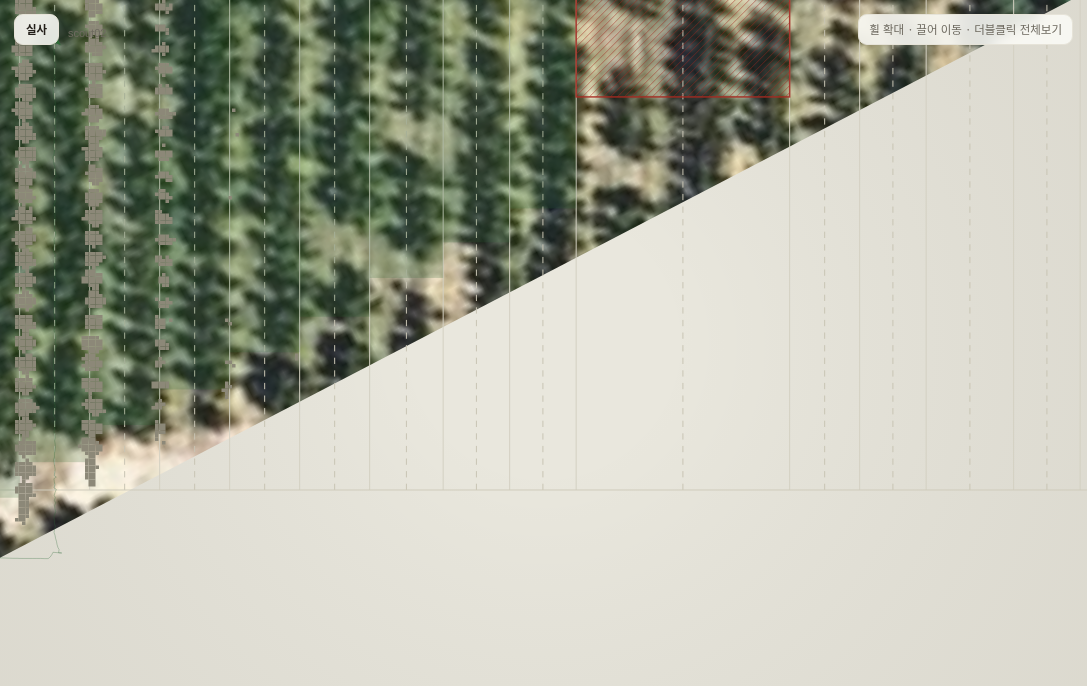
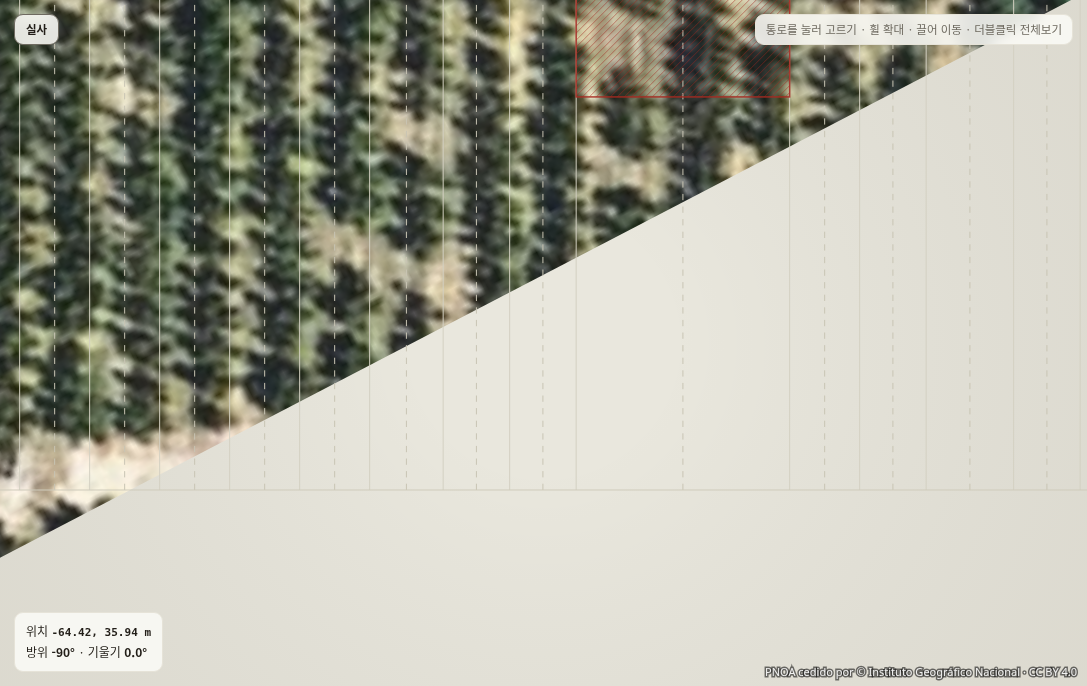
선수정 — 명령 응답이 개입 티켓을 만들던 결함 차단 + 정사영상 출처 표기
수정 라운드 1 의 선수정 승인 2건(I1·I2). 둘 다 T7 게이트가 드러낸 것이다.

I1 — cmd_result 가 개입 큐를 오염시켰다
  `_route_intervention` 은 이벤트 payload 의 code 를 그대로 코드표에 넣는데,
  `cmd_result` 는 성공 시에도 code:"OK" 를 싣는다. stopcodes.get("OK") 는
  UNKNOWN(needs_operator=True)으로 떨어지므로 **정상적으로 수락된 명령 하나
  하나가 "분류되지 않은 정지" 티켓을 열었다**. 실측: 게이트 발진 3초 만에
  `mission_start → accepted` 가 티켓이 됐고, 큐를 비워도 다음 명령이 곧바로
  새 티켓을 열었다. 개입 건수·통로당 개입·현장 출동이 통째로 오염된다.

  코드표를 넓히는 대신 **채널을 가른다** — 진입부에서 kind ∈ {cmd_result,
  report} 를 제외한다. 이 두 kind 의 code 는 명령 처리 결과 코드(OK·BUSY·
  TIMEOUT·BAD_PARAM)이지 정지 사유 코드가 아니고, 이미 _consume_cmd_result 가
  임무 상태기계로 소비한다. 명령이 정말 사람을 불러야 하면 로봇이 assistance
  를 따로 낸다.

  시험 6건: 실측된 응답 4형태(accepted/completed OK · relocalize failed
  TIMEOUT · rejected BUSY)와 report 가 티켓을 안 열고, **진짜 개입 3종
  (TRACTION_LOSS·LOCALIZATION_LOST·estop)은 여전히 연다**. 가드를 지우면
  6건이 전부 실패하는 것도 확인했다(변이 시험).
  과거 UNKNOWN 7행은 손대지 않는다 — 지표 연속성 판단은 별건이다.

I2 — 정사영상 출처 표기(CC BY 4.0 의무)
  LICENSE-DATA.md 는 "대시보드 배경 포함 모든 산출물"에 표기를 요구하는데
  화면에도 API 에도 문자열이 없었다. /api/v1/farm 에 attribution 을 신설하고
  (farm.json 에 있으면 그것을 우선) 대시보드가 지도 우하단에 상시 렌더한다.
  문자열을 화면에 복사해 두면 농장·영상이 바뀔 때 갈라지므로 **데이터가
  표기를 들고 다니게** 했다 — 기하와 같은 원칙이다. 벡터 지도로 토글하면
  바탕이 그 이미지가 아니므로 표기하지 않는다.

  시험 2건 + Playwright 화소 대조(attribution 만 껐다 켜서 우하단 화소 차이:
  실사 2,639 · 벡터 0). 지도 스크린샷 재촬영.

회귀: server 261 → 270 passed. robomw 71 · orchard_sim 32 불변(서버 전용).

diff --git a/server/web/index.html b/server/web/index.html
@@ -1782,6 +1782,28 @@ function draw(){
   }
   for (const [k,r] of robots) if (k !== selKey) drawRobot(r, false, c);
   if (srv) drawRobot(srv, true, c);
+  drawAttribution();
+}
+
+/* 정사영상 출처 표기 — CC BY 4.0 의무 이행 지점.
+   실사 바탕을 실제로 그린 화면에만, 지도 우하단에 상시 표기한다. 문구는
+   서버(/api/v1/farm 의 attribution)가 준 것을 그대로 쓴다 — 화면에 문자열을
+   복사해 두면 농장·영상이 바뀔 때 갈라진다. 벡터 지도로 토글하면 바탕이
+   그 이미지가 아니므로 표기하지 않는다. */
+function drawAttribution(){
+  if (!(mapMode === "photo" && FARM && orthoReady && orthoImg)) return;
+  const t = FARM.attribution;
+  if (!t) return;
+  ctx.save();
+  ctx.font = "11px system-ui, sans-serif";
+  ctx.textAlign = "right"; ctx.textBaseline = "bottom";
+  const x = cv.width - 10, y = cv.height - 8;
+  // 밝은 항공영상 위에서도 읽히도록 얇은 어두운 외곽선 + 흰 글자
+  ctx.lineWidth = 3; ctx.strokeStyle = "rgba(0,0,0,.55)";
+  ctx.strokeText(t, x, y);
+  ctx.fillStyle = "rgba(255,255,255,.92)";
+  ctx.fillText(t, x, y);
+  ctx.restore();
 }
 
 /* ── 조작 ──────────────────────────────────────────────────────────── */

diff --git a/server/tests/test_service.py b/server/tests/test_service.py
@@ -452,3 +452,69 @@ def test_subscribe_receives_and_unsub_stops(factory):
     unsub()
     fp.feed("scout01", "tel/health", {"batt": 80})
     assert len(got) == 1                          # unsub 후 미호출
+
+
+# ── 명령 응답은 개입 티켓이 아니다 (T7 수정 라운드 1 · I1) ──────────────────
+#
+# `cmd_result`·`report` 의 `code` 는 **명령 처리 결과 코드**(성공 "OK", 실패
+# "BUSY"·"TIMEOUT"·"BAD_PARAM")이지 정지 사유 코드가 아니다. 그런데
+# `stopcodes.get` 은 모르는 코드를 UNKNOWN(needs_operator=True)으로 떨어뜨려서,
+# 거르지 않으면 정상적으로 수락된 명령 하나하나가 "분류되지 않은 정지" 티켓을
+# 열었다 (2026-08-15 T7 게이트 실측: 발진 3초 만에 재현, 개입 지표 오염).
+
+def _open_ivs(factory, robot_id="scout01"):
+    with factory() as db:
+        return [r.code for r in db.query(m.Intervention)
+                .filter(m.Intervention.robot_id == robot_id).all()]
+
+
+def test_cmd_result_ok_opens_no_intervention(factory):
+    """accepted/completed(code OK) — 티켓 0건. 임무 상태기계는 그대로 돈다."""
+    ms_id = _seed_mission(factory)
+    fp, _ = _svc(factory)
+    fp.feed("scout01", "evt", _accepted(ms_id), seq=1)
+    fp.feed("scout01", "evt", _completed(ms_id), seq=2)
+    assert _open_ivs(factory) == []
+    assert _state(factory, ms_id) == "DONE"       # 소비 경로는 살아 있다
+
+
+@pytest.mark.parametrize("cmd,status,code,msg", [
+    ("relocalize", "failed", "TIMEOUT", "relocalize → failed (TIMEOUT)"),
+    ("relocalize", "rejected", "BUSY", "relocalize → rejected (BUSY)"),
+    ("self_test", "completed", "OK", "self_test → completed"),
+    ("mission_cancel", "accepted", "OK", "mission_cancel → accepted"),
+])
+def test_cmd_result_any_status_opens_no_intervention(factory, cmd, status, code, msg):
+    """실패·거부 응답도 티켓 채널이 아니다 — 사람을 불러야 하면 로봇이
+    `assistance` 를 따로 낸다. (실측된 네 가지 형태를 그대로 넣는다)"""
+    _seed_robot(factory)
+    fp, _ = _svc(factory)
+    fp.feed("scout01", "evt", {"kind": "cmd_result", "cmd_id": "x1", "cmd": cmd,
+                               "status": status, "code": code, "data": {},
+                               "msg": msg, "level": "info"}, seq=1)
+    assert _open_ivs(factory) == []
+
+
+def test_report_kind_opens_no_intervention(factory):
+    """완료 보고(report)도 같다 — code 는 결과 코드다."""
+    _seed_robot(factory)
+    fp, _ = _svc(factory)
+    fp.feed("scout01", "evt", {"kind": "report", "code": "OK",
+                               "data": _REPORT, "msg": "임무 보고"}, seq=1)
+    assert _open_ivs(factory) == []
+
+
+def test_real_stop_codes_still_open_intervention(factory):
+    """오탐 제거가 과해서 **진짜 개입**까지 놓치면 안 된다 — 회귀 방어.
+
+    T7 게이트에서 실제로 올라온 두 사유를 그대로 쓴다."""
+    _seed_robot(factory)
+    fp, _ = _svc(factory)
+    fp.feed("scout01", "evt", {"kind": "assistance", "code": "TRACTION_LOSS",
+                               "msg": "오도메트리는 0.52 m 전진을 보고하는데 "
+                                      "스캔 변위는 0.00 m — 바퀴 헛돎"}, seq=1)
+    fp.feed("scout01", "evt", {"kind": "assistance", "code": "LOCALIZATION_LOST",
+                               "msg": "8초째 위치 보정 실패"}, seq=2)
+    fp.feed("scout01", "evt", {"kind": "estop", "msg": "비상정지"}, seq=3)
+    assert sorted(_open_ivs(factory)) == ["ESTOP_REMOTE", "LOCALIZATION_LOST",
+                                          "TRACTION_LOSS"]

diff --git a/server/fleet_server/fleet/service.py b/server/fleet_server/fleet/service.py
@@ -197,10 +197,27 @@ class FleetService:
     _KIND_TO_CODE = {"estop": "ESTOP_REMOTE", "estop_cleared": None,
                      "link_lost": "LINK_LOST_POLICY", "tilt": "TILT_LIMIT"}
 
+    # **명령 응답은 티켓 채널이 아니다.** `cmd_result`·`report` 의 `code` 는
+    # 명령 처리 결과 코드(성공이면 "OK", 실패면 "BUSY"·"TIMEOUT"·"BAD_PARAM"
+    # 따위)이지 정지 사유 코드가 아니다. 그런데 `stopcodes.get` 은 모르는 코드를
+    # UNKNOWN(needs_operator=True)으로 떨어뜨리므로, 거르지 않으면 **정상적으로
+    # 수락된 명령 하나하나가 "분류되지 않은 정지" 티켓을 연다**.
+    #
+    # 실측(2026-08-15 T7 게이트): 발진 3초 만에 `mission_start → accepted` 가
+    # 티켓이 됐고, 큐를 비워도 다음 명령이 곧바로 새 티켓을 열었다. 개입 지표
+    # (개입 건수·통로당 개입·현장 출동)가 통째로 오염된다 — 지표의 정의가
+    # 흔들리는 순간 그 숫자는 조작 가능해진다(stopcodes.py 머리말).
+    #
+    # 이 두 kind 는 이미 `_consume_cmd_result` 가 임무 상태기계로 소비한다.
+    # 명령이 정말 사람을 불러야 하면 로봇이 `assistance` 를 따로 낸다.
+    _NON_TICKET_KINDS = ("cmd_result", "report")
+
     def _route_intervention(self, db, robot_id: str, payload: dict) -> None:
         from .. import interventions, stopcodes
         from ..models import Robot
         kind = str(payload.get("kind", ""))
+        if kind in self._NON_TICKET_KINDS:
+            return
         code = payload.get("code") or self._KIND_TO_CODE.get(kind)
         if kind in ("estop_cleared", "resolved") and payload.get("code"):
             interventions.auto_resolve(db, robot_id, payload["code"])

diff --git a/server/fleet_server/api/farm_routes.py b/server/fleet_server/api/farm_routes.py
@@ -26,9 +26,21 @@ router = APIRouter(tags=["farm"])          # /api/v1 프리픽스로 얹는다
 assets_router = APIRouter(tags=["assets"])  # 이미지는 프리픽스 없이(정적 자산)
 
 
+# 정사영상 출처 표기 — **라이선스 의무의 이행 지점**.
+#
+# sim/assets/imagery/LICENSE-DATA.md 는 "이 이미지를 사용하는 모든 산출물
+# (시뮬레이션 월드, 스크린샷, **대시보드 배경** 등)"에 표기를 요구한다(CC BY 4.0).
+# 문구는 그 문서의 축약형을 **그대로** 옮긴다 — 두 곳에서 따로 손보면 갈라진다.
+#
+# 화면이 아니라 API 가 들고 있는 이유: 다른 농장·다른 영상으로 바꿔도 표기가
+# 데이터를 따라오게 하려는 것이다(기하와 같은 원칙). farm.json 에 `attribution`
+# 이 있으면 그것을 우선한다.
+ORTHO_ATTRIBUTION = ("PNOA cedido por © Instituto Geográfico Nacional · CC BY 4.0")
+
+
 @router.get("/farm")
 def get_farm(request: Request, user: User = Depends(current_user)) -> dict:
-    """farm.json 전문 + ortho_url. 로그인 사용자면 역할 무관하게 전원 허용."""
+    """farm.json 전문 + ortho_url + attribution. 로그인 사용자면 전원 허용."""
     farm = request.app.state.farm
     if farm is None:
         raise HTTPException(404, "농장 매니페스트가 설정되지 않았습니다")
@@ -36,6 +48,7 @@ def get_farm(request: Request, user: User = Depends(current_user)) -> dict:
     out = dict(farm)
     out["ortho_url"] = f"/assets/{farm['image']}"
     out["farm_id"] = settings.farm_id            # I2 — 설정으로 선언한 단일 농장 id
+    out["attribution"] = farm.get("attribution") or ORTHO_ATTRIBUTION
     return out
 
 

diff --git a/server/tests/test_farm_routes.py b/server/tests/test_farm_routes.py
@@ -129,6 +129,24 @@ def test_farm_endpoint_includes_ortho_url_and_farm_id(client_with_farm):
     assert r.json()["farm_id"] == 1                # I2 — 기본 FLEET_FARM_ID=1
 
 
+def test_farm_endpoint_carries_ortho_attribution(client_with_farm):
+    """T7 수정 라운드 1 · I2 — 정사영상 출처 표기는 **라이선스 의무**다
+    (LICENSE-DATA.md: '대시보드 배경 포함 모든 산출물'). 화면이 문자열을
+    들고 있으면 농장·영상이 바뀔 때 갈라지므로 API 가 준다."""
+    do_login(client_with_farm)
+    a = client_with_farm.get("/api/v1/farm").json()["attribution"]
+    assert "Instituto Geográfico Nacional" in a and "CC BY 4.0" in a
+
+
+def test_farm_attribution_can_be_overridden_by_manifest(client_with_farm, tmp_path):
+    """다른 출처의 영상으로 바꾸면 farm.json 의 attribution 이 우선한다."""
+    app = client_with_farm.app
+    app.state.farm = dict(app.state.farm, attribution="© 다른 기관 · CC BY-SA 4.0")
+    do_login(client_with_farm)
+    assert client_with_farm.get("/api/v1/farm").json()["attribution"] \
+        == "© 다른 기관 · CC BY-SA 4.0"
+
+
 def test_farm_endpoint_requires_login(client_with_farm):
     assert client_with_farm.get("/api/v1/farm").status_code == 401
 
